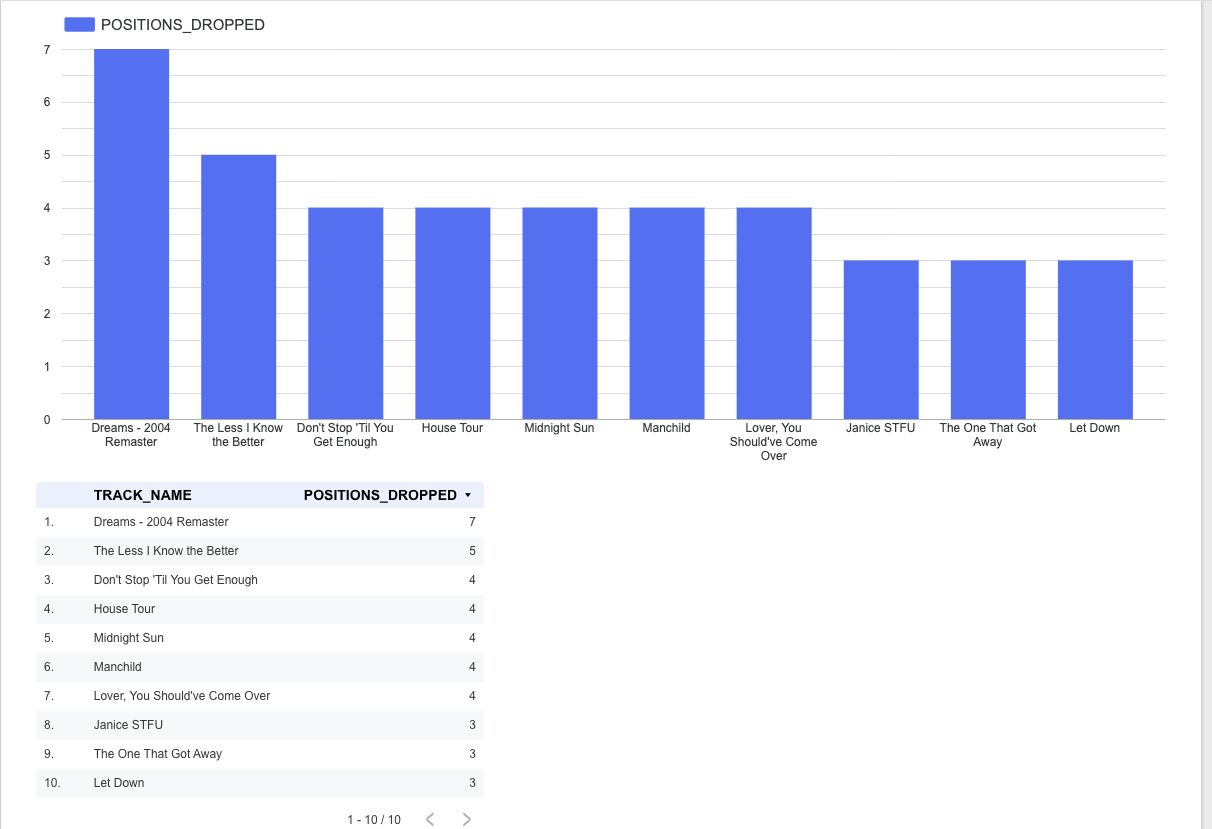
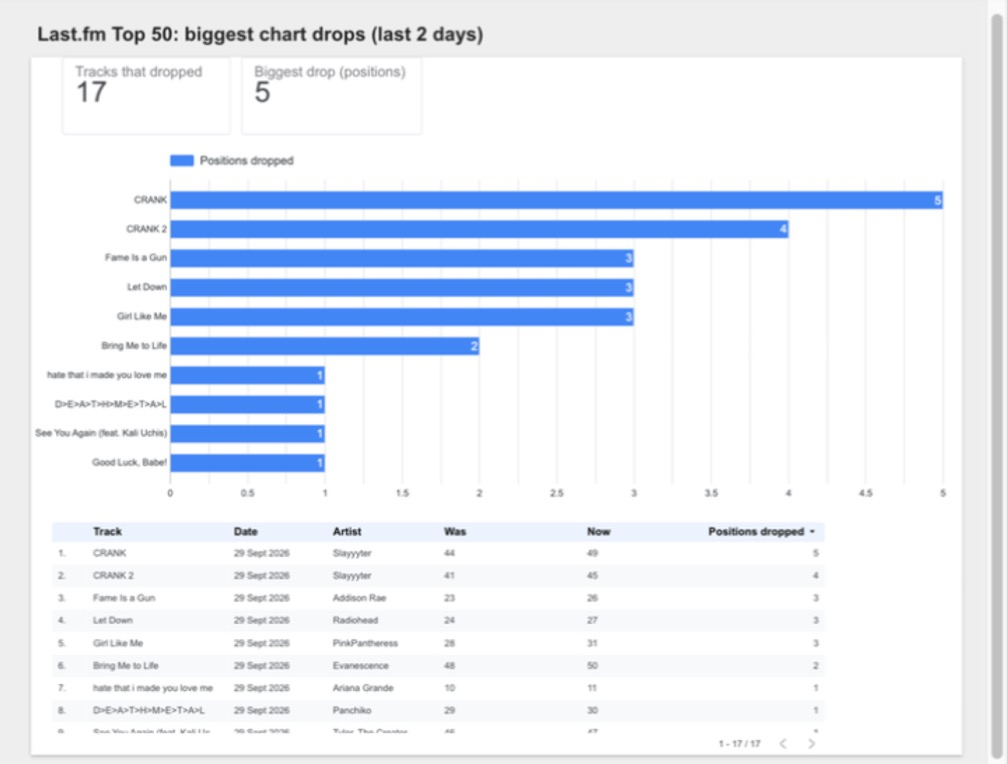
Add Data Studio dashboard with read-only reporting user

diff --git a/README.md b/README.md
@@ -14,9 +14,11 @@ Built as the final project for the Data Engineering course of the Data Analyst p
 
 Each run pulls the current Last.fm global Top 50, stores the raw JSON, loads it into a warehouse, and compares every track's position against its previous appearance. The tracks that fell furthest surface in the final table.
 
-**Sample result**: on the submission date, the biggest faller was *Dreams (2004 Remaster)* by Fleetwood Mac, down 7 positions.
+**Sample result**: on 29 September 2026, 17 tracks in the Top 50 fell compared with the day before. The biggest faller was *CRANK* by Slayyyter, from #44 to #49.
 
-![Chart drops dashboard (Looker Studio, original version)](docs/dashboard.png)
+![Chart drops dashboard in Data Studio](docs/dashboard.png)
+
+The dashboard is built in Google Data Studio (formerly Looker Studio) on top of `MARTS.FCT_CHART_DROPS`, and refreshes every 12 hours.
 
 ---
 
@@ -28,6 +30,7 @@ flowchart LR
     B -- PUT --> C[Snowflake internal stage<br/>@RAW.LASTFM_STAGE]
     C -- COPY INTO --> D[Snowflake<br/>RAW.TOP_TRACKS]
     D --> E[dbt build<br/>STAGING + MARTS + tests]
+    E --> F[Data Studio dashboard<br/>read-only user]
     G[GitHub Actions<br/>daily cron + manual run] -.orchestrates.-> B
     G -.-> E
 ```
@@ -38,6 +41,7 @@ The workflow (`.github/workflows/pipeline.yml`) runs every day at 06:17 UTC and 
 2. **Load**: `PUT` the file into a Snowflake internal stage, then `COPY INTO` the raw table. The load timestamp is parsed from the file name, so reloaded historical files keep their real date.
 3. **Transform + test**: `dbt build` creates the models and runs every data test in dependency order. If a test fails, the run turns red.
 4. **Archive**: the raw JSON is kept as a downloadable workflow artifact for 30 days.
+5. **Visualise**: Data Studio reads `MARTS.FCT_CHART_DROPS` through a separate read-only service user (`LASTFM_REPORTING_USER`), also with key-pair auth.
 
 ### dbt models
 
@@ -74,7 +78,8 @@ It worked, but only while my laptop was on, and it depended on two trial account
 | **Landing zone** | Azure Blob Storage + external stage | Snowflake internal stage | One less cloud account to maintain; the same `COPY INTO` logic works unchanged |
 | **Authentication** | Username + password | Key-pair auth for a `TYPE = SERVICE` user | Snowflake no longer allows password login for pipelines; keys can't be phished or reused |
 | **Secrets** | `.env` + `~/.dbt/profiles.yml` | GitHub Secrets, read as environment variables | Nothing sensitive in the repo; `dbt_profiles/profiles.yml` only contains `env_var()` placeholders |
-| **Permissions** | Personal admin role | Dedicated `LASTFM_PIPELINE_ROLE` | Least privilege: the pipeline can load `RAW` and build `STAGING`/`MARTS`, nothing else |
+| **Permissions** | Personal admin role | `LASTFM_PIPELINE_ROLE` (write) and `LASTFM_REPORTING_ROLE` (read-only) | Least privilege: the pipeline can load `RAW` and build `STAGING`/`MARTS`; the dashboard can only read `STAGING`/`MARTS` |
+| **Dashboard** | Looker Studio with a password login | Data Studio via a read-only service user | A BI tool should never hold write or admin rights; future grants keep access working after each dbt rebuild |
 | **dbt** | `dbt run` | `dbt build` | Tests now run on every load, not only when I remember |
 
 The original DAG (`dags/lastfm_pipeline.py`) and `lastfm.py` are kept in the repo for reference.
@@ -87,7 +92,7 @@ The original DAG (`dags/lastfm_pipeline.py`) and `lastfm.py` are kept in the rep
 - **Warehouse:** Snowflake (internal stage, key-pair auth, dedicated role and service user)
 - **Transformation & testing:** dbt Core
 - **Orchestration:** GitHub Actions (originally Apache Airflow via Astro CLI + Docker)
-- **Visualisation:** Looker Studio (original version)
+- **Visualisation:** Google Data Studio (formerly Looker Studio)
 
 ---
 
@@ -99,7 +104,8 @@ The original DAG (`dags/lastfm_pipeline.py`) and `lastfm.py` are kept in the rep
 │   └── pipeline.yml                # GitHub Actions: daily extract, load, dbt build
 ├── load_to_snowflake.py            # Last.fm API → internal stage → COPY INTO
 ├── snowflake/
-│   └── snowflake_setup.sql         # One-time setup: warehouse, schemas, stage, role, service user
+│   ├── snowflake_setup.sql         # One-time setup: warehouse, schemas, stage, pipeline role + user
+│   └── reporting_setup.sql         # Read-only role + user for the Data Studio dashboard
 ├── dbt_profiles/
 │   └── profiles.yml                # dbt connection, all values from environment variables
 ├── lastfm_dbt/
@@ -187,7 +193,7 @@ python load_to_snowflake.py --backfill data
 - [x] Move orchestration off local Docker to GitHub Actions
 - [ ] Add dbt tests with business-logic assertions, not just `not_null` and `unique`
 - [ ] Add dbt source freshness checks
-- [ ] Reconnect the Looker Studio dashboard to the new Snowflake account
+- [x] Reconnect the dashboard (now Data Studio) to the new Snowflake account with a read-only user
 - [ ] Extend beyond chart drops: biggest climbers, longest-charting tracks, artist-level trends
 
 ---
